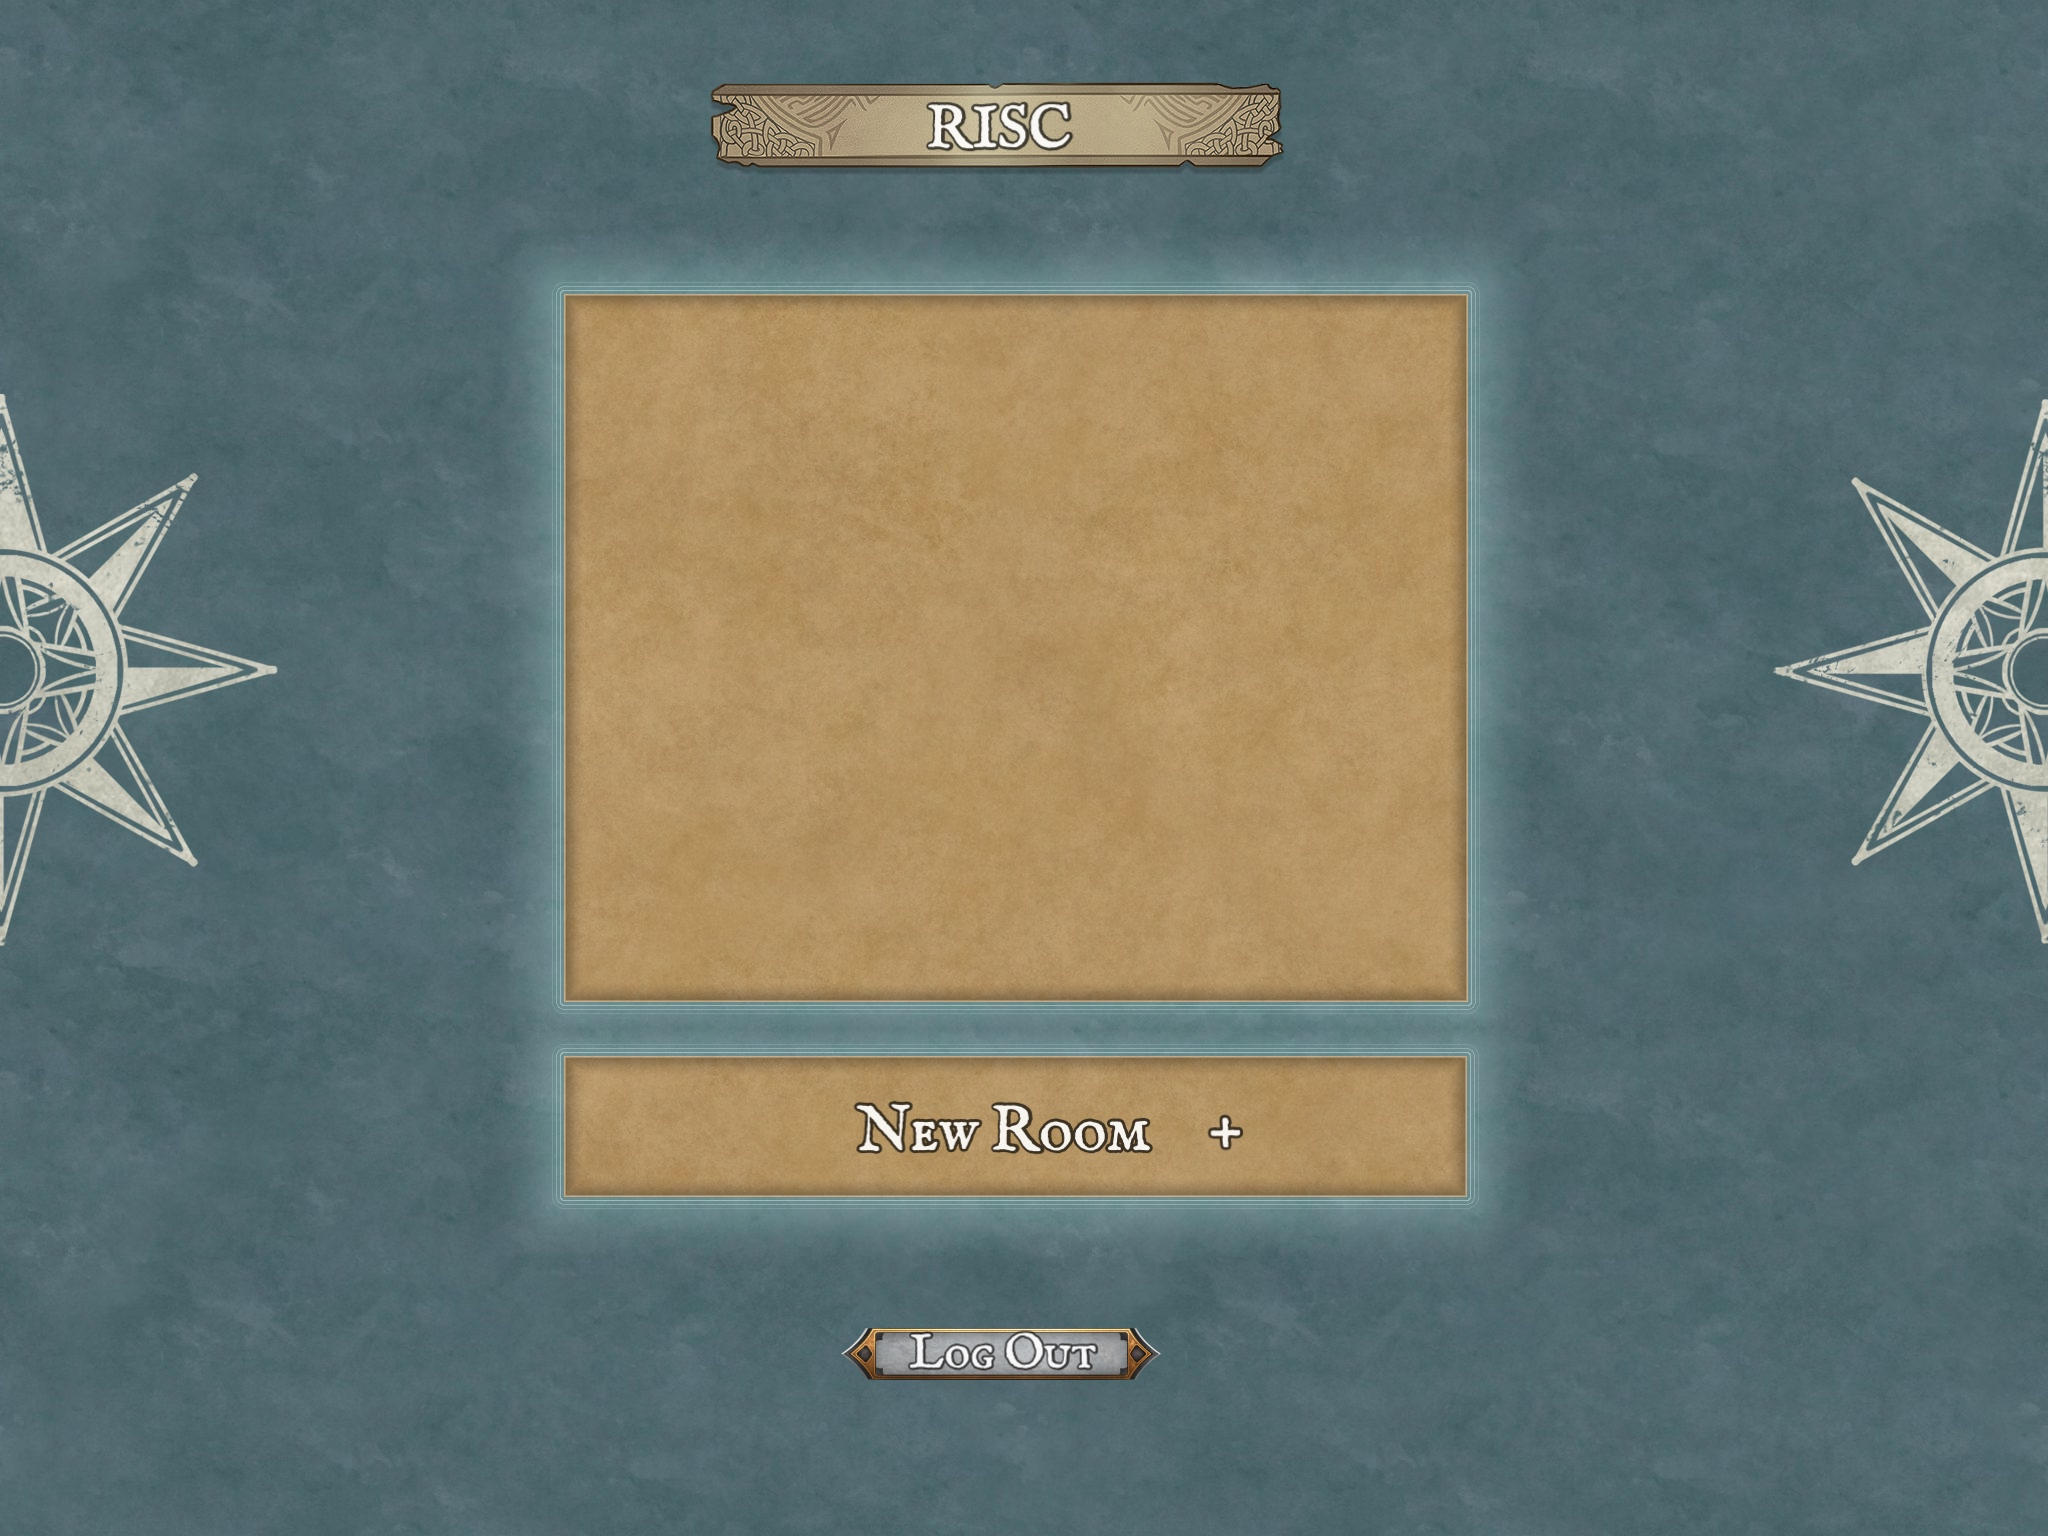
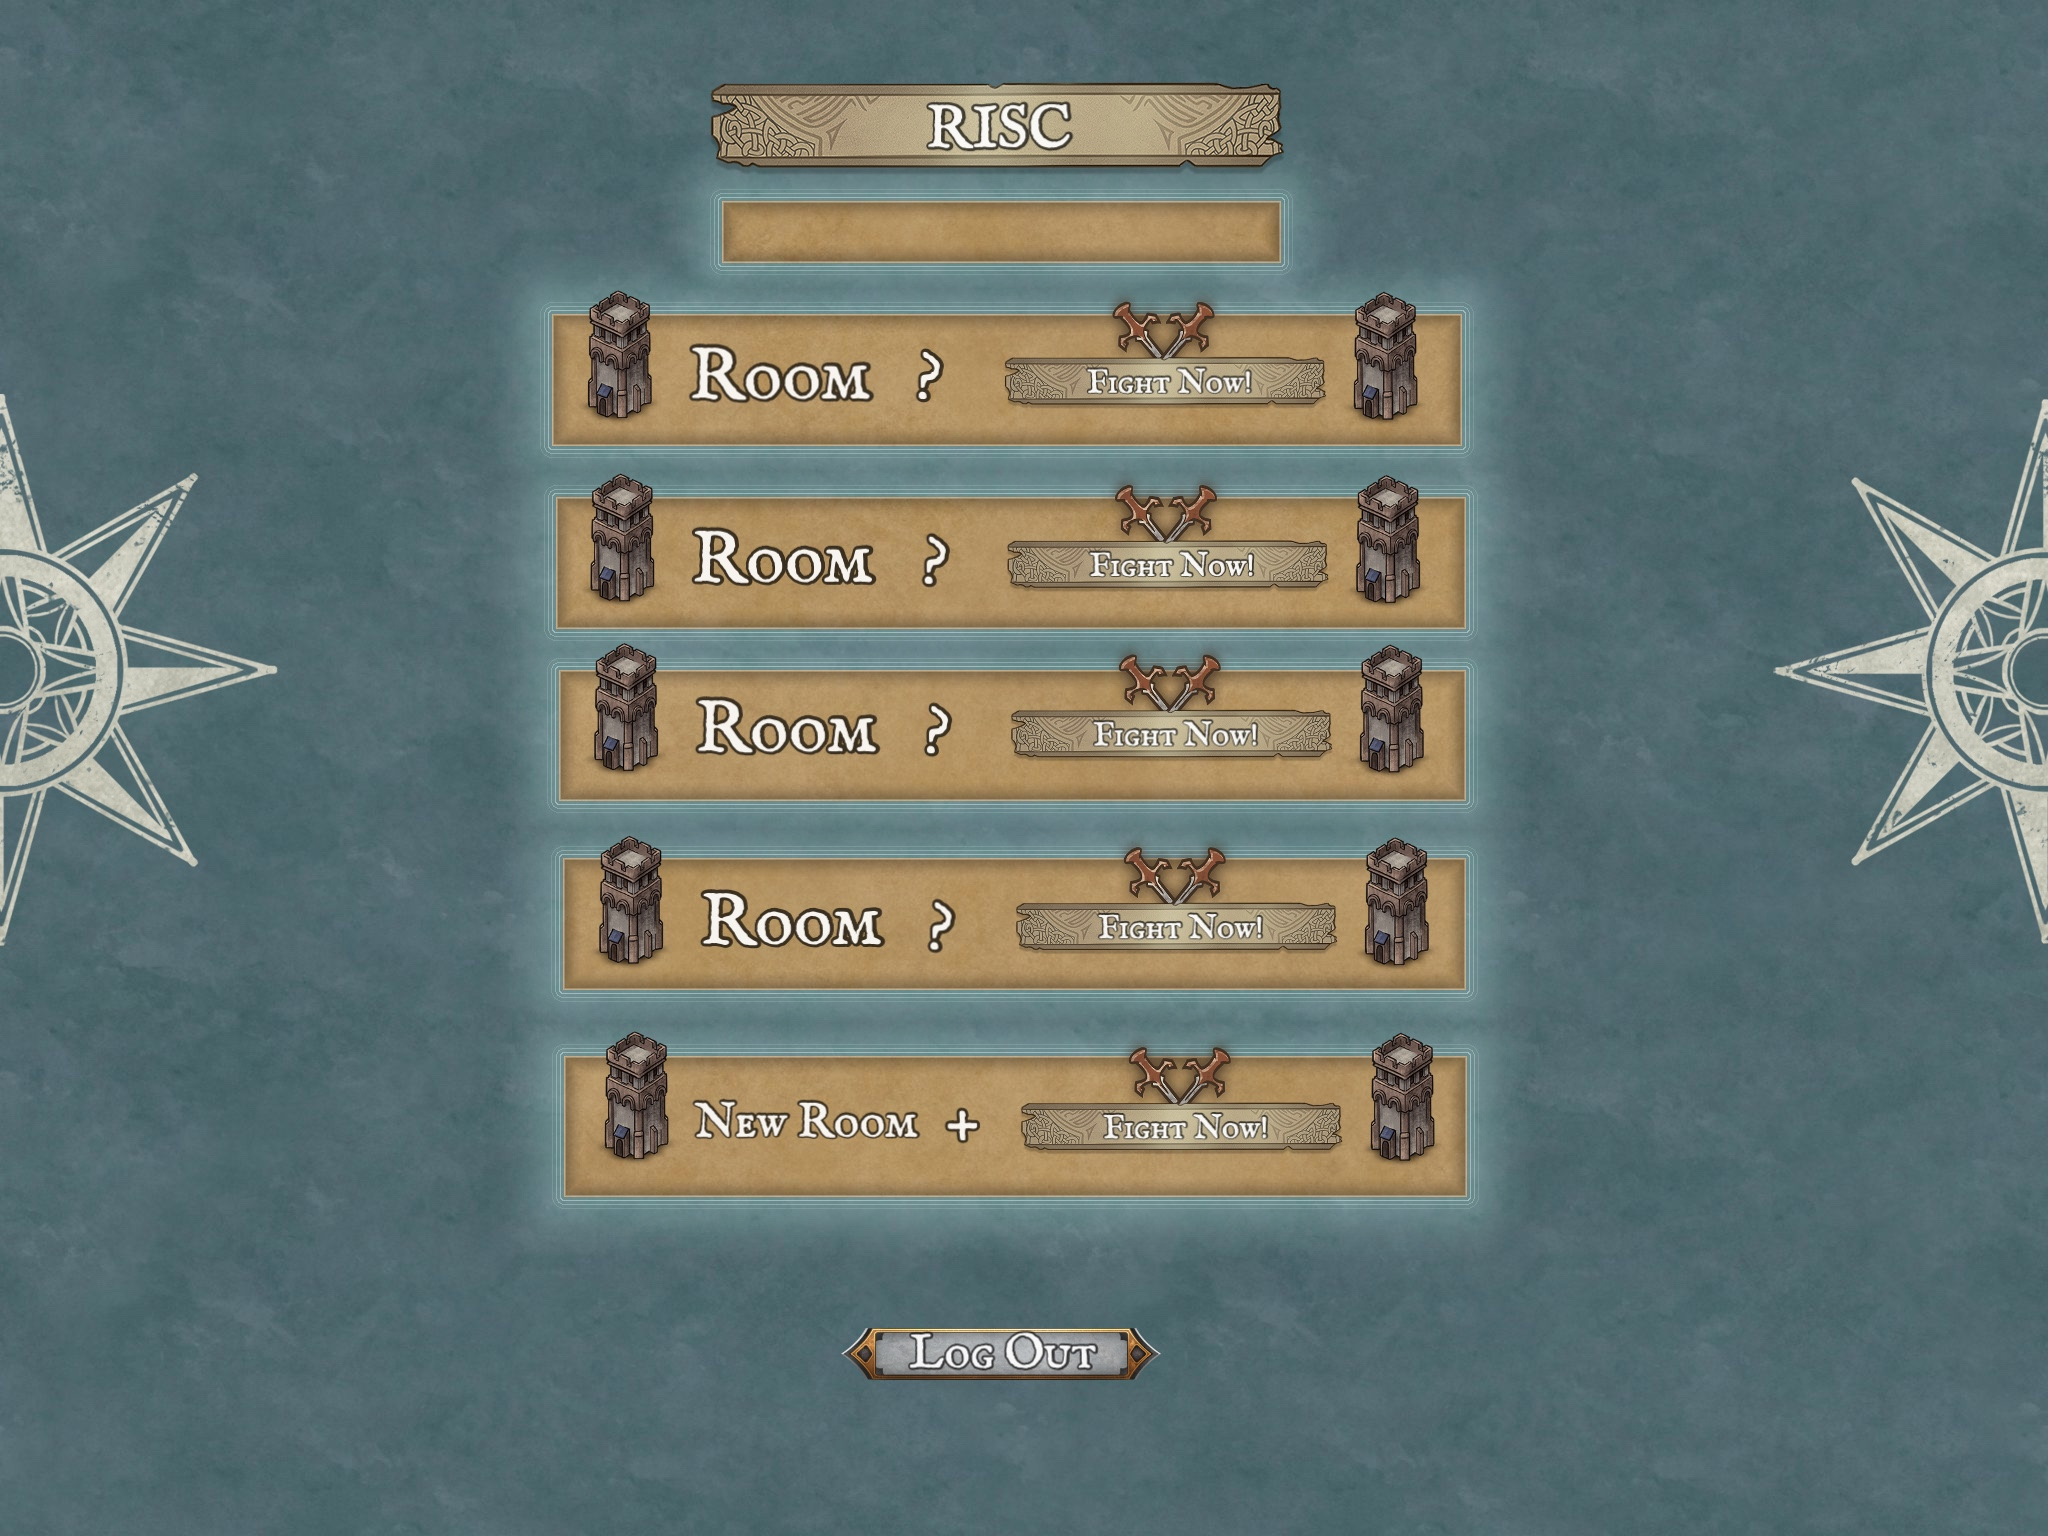
finish roompane

Changed region(s): [[0.25, 0.0938, 0.7188, 0.7812]]

diff --git a/client/src/main/java/ece651/riskgame/client/controllers/RoomPaneController.java b/client/src/main/java/ece651/riskgame/client/controllers/RoomPaneController.java
@@ -46,7 +46,17 @@ public class RoomPaneController {
     }
 
     @FXML
-    void game(ActionEvent event) throws IOException, ClassNotFoundException {
+    void seeSnap(ActionEvent event) {
+
+    }
+
+    @FXML
+    void connect(ActionEvent event) {
+
+    }
+
+    @FXML
+    void newgame(ActionEvent event) throws IOException, ClassNotFoundException {
         String ip = "0.0.0.0";
         int port = 1653;
         // connect to server
